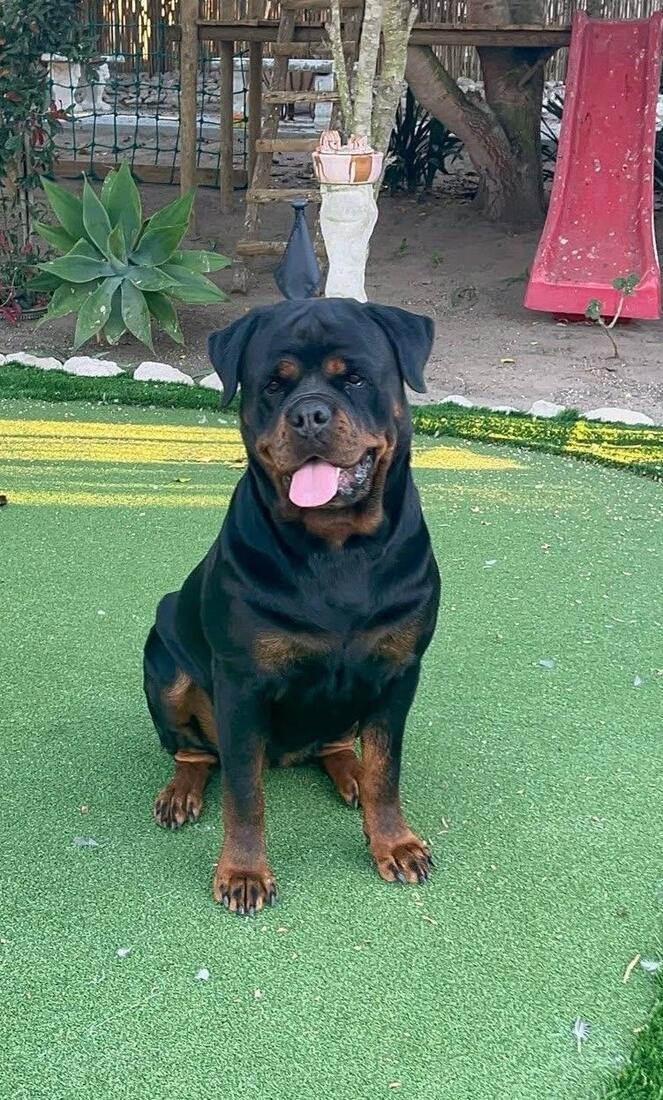
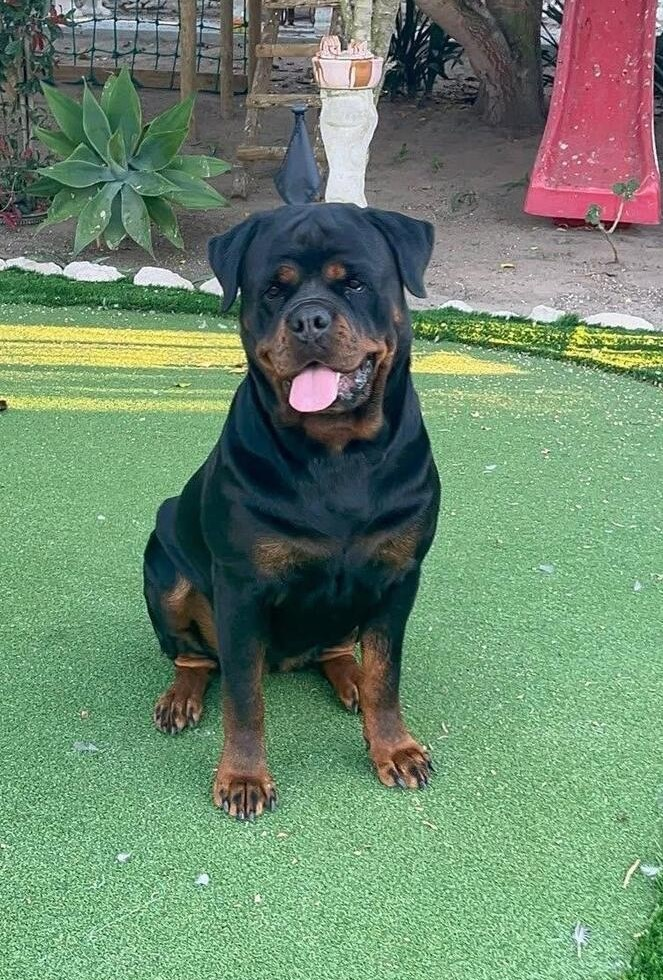
updated images and copy to match clients request

diff --git a/script.js b/script.js
@@ -58,9 +58,12 @@ const DOGS = [
     bio: "Torbit Ella of Spartan Rottweilers is the youngest female in our kennel and represents the future of Spartan Rottweilers. Ella possesses a pedigree that combines many of my favorite bloodlines. Her mother is a daughter of Cochise from Royal Breed (Serbia), while her father carries the renowned Timitor bloodline (Serbia). This unique combination has produced a female with exceptional breed type, a strong and powerful head, a short muzzle, an excellent topline, compact and deep, rich mahogany markings. In addition to her impressive structure and appearance, Ella has an energetic and confident personality. She displays a balance prey drive and is rarely seen without her favourite pink ball.",
     photos: [
       "images/rottweiler-torbit-ella-sitting-park.jpeg",
-      "images/rottweiler-torbit-ella-sitting.jpeg",
+      "images/rottweiler-torbit-ella-sitting-side.jpeg",
+      "images/rottweiler-torbit-ella-puppy.jpeg",
+      "images/rottweiler-torbit-ella-pup-blanket.jpeg",
+      "images/rottweiler-torbit-ella-ty.jpeg",
       "images/rottweiler-torbit-ella-on-couch.jpeg",
-      "images/rottweiler-torbit-ella-puppy.jpeg"
+      "images/rottweiler-torbit-ella-on-couch-ball.jpeg"
     ]
   },
   {
@@ -92,7 +95,7 @@ const DOGS = [
   },
   {
     name: "Spartan Frank \u2018Bear\u2019",
-    tag: "Sire",
+    tag: "Stud Male",
     dob: "05 Dec 2014",
     sire: "Champ from Royal Breed (Serbia)",
     dam: "Spartan Chloe",
@@ -117,7 +120,7 @@ const DOGS = [
   },
   {
     name: "Spartan Astrix",
-    tag: "Stud Male",
+    tag: "Male Bred by Us",
     dob: "28 Feb 2008",
     sire: "Chanteur Salute",
     dam: "Legion Chevy of Spartan",

diff --git a/index.html b/index.html
@@ -37,7 +37,7 @@
   <div class="wrap hero-content">
     <span class="eyebrow">KUSA Registered · Est. 2003</span>
     <h1>Bred with purpose, <em>raised with heart.</em></h1>
-    <p class="lead">Spartan Rottweilers is a small, carefully planned breeding program built on sound genetics, true temperament, and two decades of pedigree we can stand behind.</p>
+    <p class="lead">Spartan Rottweilers is a proudly KUSA-registered breeding programme based in Cape Town, South Africa, focused on producing healthy, confident Rottweilers with strong breed type, sound genetics and excellent temperaments.</p>
     <div class="hero-ctas">
       <a href="#dogs" class="btn btn-primary">Meet Our Dogs</a>
       <a href="#contact" class="btn btn-outline">Start an Enquiry</a>
@@ -50,7 +50,6 @@
   <div class="wrap">
     <div class="section-head">
       <span class="eyebrow">About Us</span>
-      <h2>Two decades of careful, deliberate breeding</h2>
       <div class="rule"></div>
     </div>
 
